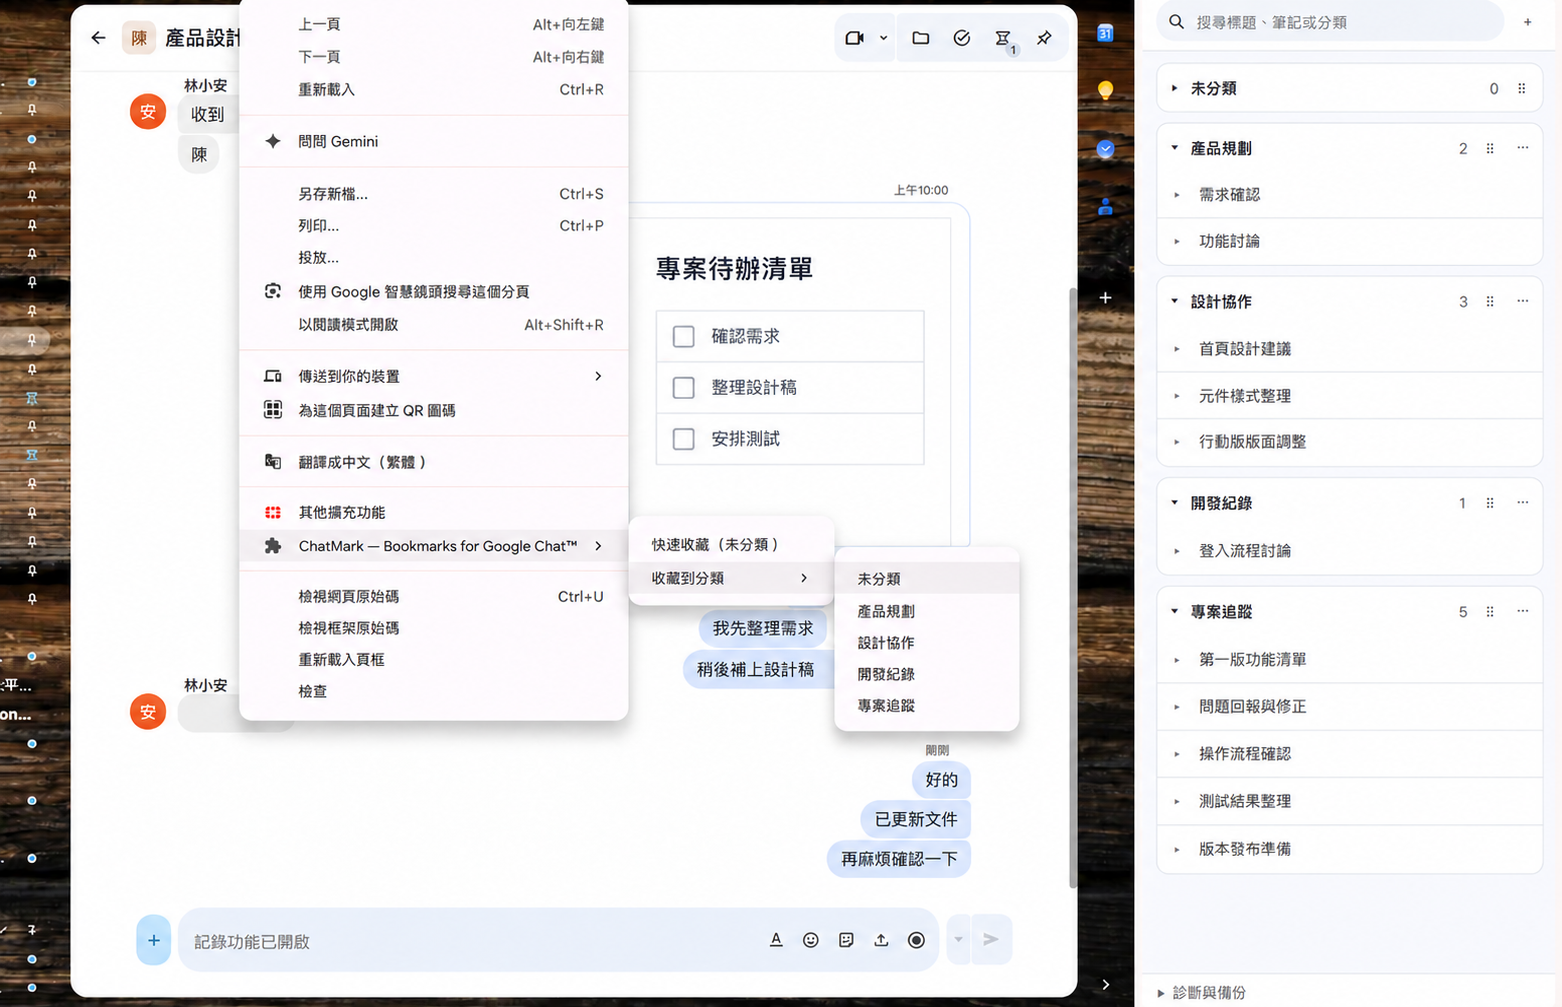
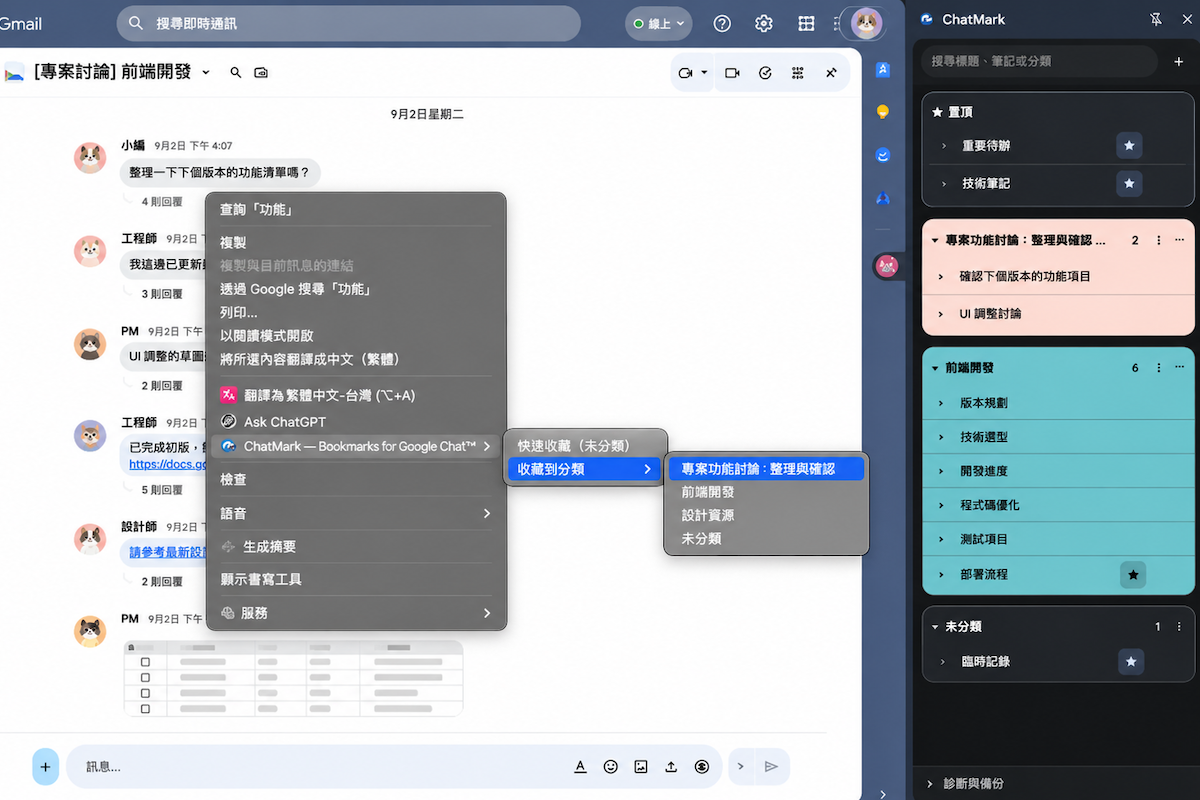
feat(website): 發布分類配色介紹與新版截圖

diff --git a/site/index-en.html b/site/index-en.html
@@ -7,7 +7,8 @@
     <meta name="referrer" content="no-referrer">
     <title>ChatMark | Bookmark Google Chat Messages in Gmail</title>
     <link rel="canonical" href="https://feifeiseal.github.io/google-chat-bookmark/index-en.html">
-    <link rel="icon" href="./icon-32.png" type="image/png">
+    <link rel="icon" href="./icon-16.png?v=0.1.3" type="image/png" sizes="16x16">
+    <link rel="icon" href="./icon-32.png?v=0.1.3" type="image/png" sizes="32x32">
     <link rel="stylesheet" href="./styles.css">
     <link rel="alternate" hreflang="zh-Hant" href="https://feifeiseal.github.io/google-chat-bookmark/">
     <link rel="alternate" hreflang="en" href="https://feifeiseal.github.io/google-chat-bookmark/index-en.html">
@@ -40,7 +41,7 @@
   <body>
     <a class="skip-link" href="#intro">Skip to introduction</a>
     <header class="site-header">
-      <a class="brand" href="./index-en.html" aria-current="page"><img src="./icon-48.png" width="32" height="32" alt=""><span>ChatMark</span></a>
+      <a class="brand" href="./index-en.html" aria-current="page"><img src="./icon-48.png?v=0.1.3" width="32" height="32" alt=""><span>ChatMark</span></a>
       <div class="header-links">
         <nav class="languages" aria-label="Language">
           <a href="./index.html" lang="zh-Hant" hreflang="zh-Hant">繁體中文</a>
@@ -70,21 +71,33 @@
 
       <figure class="product-shot">
         <a href="./images/bookmark-demo.png" target="_blank" rel="noopener" aria-label="View the full screenshot in a new tab">
-          <img src="./images/bookmark-demo.png" width="1562" height="1007" loading="lazy" decoding="async" alt="Google Chat embedded in Gmail with a right-click menu for saving a message to a category. The side panel shows bookmarks organized into product planning, design collaboration, development notes, and project tracking. The interface is in Traditional Chinese.">
+          <img src="./images/bookmark-demo.png" width="1200" height="800" loading="lazy" decoding="async" alt="Google Chat embedded in Gmail with a right-click menu for saving a message to a category. The ChatMark side panel shows categories with custom pink and teal card colors. The interface is in Traditional Chinese.">
         </a>
-        <figcaption>Save a message to a category from its right-click menu, then organize and search bookmarks in the side panel. <a href="./images/bookmark-demo.png" target="_blank" rel="noopener">View original (new tab)</a></figcaption>
+        <figcaption>Save a message to a category from its right-click menu, then organize and search bookmarks in the side panel. Categories can use custom colors. <a href="./images/bookmark-demo.png" target="_blank" rel="noopener">View original (new tab)</a></figcaption>
       </figure>
 
       <section aria-labelledby="features">
         <h2 id="features">Keep important conversations within reach</h2>
         <dl class="feature-list">
           <div><dt>Bookmark directly from a message</dt><dd>Right-click a Google Chat message to save it as uncategorized or choose a category. The title is taken from the message, and you can save different messages from the same conversation separately. If you try to save the same message again, the notice lets you jump to the existing bookmark.</dd></div>
-          <div><dt>Manage your categories</dt><dd>Create, rename, or delete categories, then drag them into the order you want. Expand or collapse categories to keep the side panel tidy.</dd></div>
+          <div><dt>Manage your categories</dt><dd>Create, rename, or delete categories, then drag them into the order you want. Use the category’s More menu to choose background and text colors for its entire card. Expand or collapse categories to keep the side panel tidy.</dd></div>
           <div><dt>Search and edit bookmarks</dt><dd>Search bookmark titles, category names, and notes, with title matches shown first. Edit titles and notes, delete bookmarks, or pin the ones you use most. Pinned bookmarks appear at the top of the side panel and in their original category.</dd></div>
           <div><dt>Organize with drag and drop</dt><dd>Drag bookmarks to reorder them within a category, move them to another category, or arrange pinned items. Categories remember whether you left them expanded or collapsed.</dd></div>
           <div><dt>Undo mistakes</dt><dd>Before deleting a category, you’ll see how many bookmarks it contains and be asked to confirm. You can undo the most recent bookmark or category deletion, and undo a new save from its confirmation notice.</dd></div>
           <div><dt>Return to the original message</dt><dd>Open a bookmark from the side panel to return to its saved message location in Gmail and read the surrounding conversation.</dd></div>
         </dl>
+      </section>
+
+      <section class="color-feature" aria-labelledby="category-colors">
+        <div>
+          <h2 id="category-colors">Recognize categories by color</h2>
+          <p>Use a category’s More menu and choose 「編輯分類」 (Edit category) to set the background and text colors of its entire card. Choose a preset background color, or use the color pickers and six-digit HEX fields for precise colors.</p>
+          <p>Preview the title, bookmarks, and notes before saving. You can reset both colors together later. The Uncategorized category keeps its default appearance.</p>
+        </div>
+        <figure>
+          <a href="./images/category-colors.png" target="_blank" rel="noopener" aria-label="View the category color settings screenshot in a new tab"><img src="./images/category-colors.png" width="400" height="600" loading="lazy" decoding="async" alt="ChatMark category editor with a pink background, dark text, and a preview of the fully colored category card. The interface is in Traditional Chinese."></a>
+          <figcaption>Category colors and live preview</figcaption>
+        </figure>
       </section>
 
       <section aria-labelledby="local-data">
@@ -115,7 +128,11 @@
           </div>
           <div>
             <h3>How can I organize categories and bookmarks?</h3>
-            <p>You can create, rename, delete, and drag categories into order. Drag bookmarks to reorder or move them between categories; you can also search, edit titles and notes, and pin frequently used bookmarks.</p>
+            <p>You can create, rename, delete, and drag categories into order, and choose background and text colors for each regular category card. Drag bookmarks to reorder or move them between categories; you can also search, edit titles and notes, and pin frequently used bookmarks.</p>
+          </div>
+          <div>
+            <h3>How do I set or reset category colors?</h3>
+            <p>Open a regular category’s More menu and choose 「編輯分類」 (Edit category). Pick a preset background color, or use the color pickers or six-digit HEX fields for the background and text. Preview the full card, then save. 「恢復預設顏色」 (Restore default colors) resets both colors. The Uncategorized category keeps its default appearance.</p>
           </div>
           <div>
             <h3>Where does a bookmark take me?</h3>

diff --git a/site/index.html b/site/index.html
@@ -7,7 +7,8 @@
     <meta name="referrer" content="no-referrer">
     <title>ChatMark｜Gmail 內 Google Chat 訊息收藏與整理</title>
     <link rel="canonical" href="https://feifeiseal.github.io/google-chat-bookmark/">
-    <link rel="icon" href="./icon-32.png" type="image/png">
+    <link rel="icon" href="./icon-16.png?v=0.1.3" type="image/png" sizes="16x16">
+    <link rel="icon" href="./icon-32.png?v=0.1.3" type="image/png" sizes="32x32">
     <link rel="stylesheet" href="./styles.css">
     <link rel="alternate" hreflang="zh-Hant" href="https://feifeiseal.github.io/google-chat-bookmark/">
     <link rel="alternate" hreflang="en" href="https://feifeiseal.github.io/google-chat-bookmark/index-en.html">
@@ -40,7 +41,7 @@
   <body>
     <a class="skip-link" href="#intro">跳至介紹內容</a>
     <header class="site-header">
-      <a class="brand" href="./" aria-current="page"><img src="./icon-48.png" width="32" height="32" alt=""><span>ChatMark</span></a>
+      <a class="brand" href="./" aria-current="page"><img src="./icon-48.png?v=0.1.3" width="32" height="32" alt=""><span>ChatMark</span></a>
       <div class="header-links">
         <nav class="languages" aria-label="語言">
           <a href="./index.html" lang="zh-Hant" hreflang="zh-Hant" aria-current="page">繁體中文</a>
@@ -70,21 +71,33 @@
 
       <figure class="product-shot">
         <a href="./images/bookmark-demo.png" target="_blank" rel="noopener" aria-label="在新分頁查看完整操作截圖">
-          <img src="./images/bookmark-demo.png" width="1562" height="1007" loading="lazy" decoding="async" alt="Gmail 內嵌 Google Chat 的右鍵收藏選單，可直接選擇分類；右側側欄顯示依產品規劃、設計協作、開發紀錄與專案追蹤整理的收藏。">
+          <img src="./images/bookmark-demo.png" width="1200" height="800" loading="lazy" decoding="async" alt="Gmail 內嵌 Google Chat 的右鍵收藏選單，可直接選擇分類；右側 ChatMark 側欄顯示粉色與藍綠色的自訂分類卡片。">
         </a>
-        <figcaption>在訊息上按右鍵收藏到分類，再從側欄集中整理和搜尋。<a href="./images/bookmark-demo.png" target="_blank" rel="noopener">查看原圖（新分頁）</a></figcaption>
+        <figcaption>在訊息上按右鍵收藏到分類，再從側欄集中整理和搜尋；分類可以使用自訂顏色。<a href="./images/bookmark-demo.png" target="_blank" rel="noopener">查看原圖（新分頁）</a></figcaption>
       </figure>
 
       <section aria-labelledby="features">
         <h2 id="features">讓重要的對話更好找</h2>
         <dl class="feature-list">
           <div><dt>從訊息直接建立收藏</dt><dd>在 Google Chat 訊息上按右鍵，快速收藏到未分類，或直接指定一個分類。標題會自動取自訊息內容；同一段對話中的不同訊息也能分別收藏。若重複收藏，提示可讓你跳到既有收藏。</dd></div>
-          <div><dt>分類完整管理</dt><dd>新增分類、重新命名或刪除不再需要的分類，也能拖曳調整分類順序。展開或收合分類，讓側欄保持清楚。</dd></div>
+          <div><dt>分類完整管理</dt><dd>新增分類、重新命名或刪除不再需要的分類，也能拖曳調整分類順序。從「⋯ → 編輯分類」設定整張卡片的背景色與文字色，讓不同主題更容易辨識；展開或收合分類，讓側欄保持清楚。</dd></div>
           <div><dt>搜尋與編輯收藏</dt><dd>搜尋收藏標題、分類名稱和筆記，標題符合的結果會優先顯示。可修改標題與筆記、刪除收藏，或將常用收藏置頂；置頂項目會同時出現在側欄頂端與原分類。</dd></div>
           <div><dt>拖曳整理順序</dt><dd>拖曳收藏調整同一分類內的順序、移到其他分類，或排列置頂項目。分類展開或收合的狀態會保留。</dd></div>
           <div><dt>操作錯誤可復原</dt><dd>刪除分類前會顯示其中的收藏筆數並要求確認；刪除收藏或分類後可立即復原。剛收藏的訊息也能從提示中復原。</dd></div>
           <div><dt>一點，回到原始訊息</dt><dd>從側欄點開收藏，在 Gmail 返回保存的訊息位置，接著閱讀前後文。</dd></div>
         </dl>
+      </section>
+
+      <section class="color-feature" aria-labelledby="category-colors">
+        <div>
+          <h2 id="category-colors">用顏色辨識不同分類</h2>
+          <p>從分類右上角的「⋯ → 編輯分類」設定整張卡片的背景色與文字色。背景色可選常用色，兩種顏色都能用選色器或六位 HEX 色碼精確設定。</p>
+          <p>編輯時可先預覽標題、收藏與筆記，儲存後才會套用；需要時可一次恢復兩種預設顏色。「未分類」維持原本外觀。</p>
+        </div>
+        <figure>
+          <a href="./images/category-colors.png" target="_blank" rel="noopener" aria-label="在新分頁查看分類顏色設定截圖"><img src="./images/category-colors.png" width="400" height="600" loading="lazy" decoding="async" alt="ChatMark 分類編輯畫面：選擇粉色背景、深色文字，並預覽套色後的整張分類卡片。"></a>
+          <figcaption>分類顏色編輯與即時預覽</figcaption>
+        </figure>
       </section>
 
       <section aria-labelledby="local-data">
@@ -115,7 +128,11 @@
           </div>
           <div>
             <h3>分類與收藏可以怎麼整理？</h3>
-            <p>可以新增、重新命名、刪除及拖曳排序分類，也能拖曳收藏調整順序或移到其他分類。側欄還支援搜尋、編輯標題與筆記，以及置頂常用收藏。</p>
+            <p>可以新增、重新命名、刪除及拖曳排序分類，也能為一般分類自訂整張卡片的背景色與文字色。收藏可拖曳調整順序或移到其他分類；側欄還支援搜尋、編輯標題與筆記，以及置頂常用收藏。</p>
+          </div>
+          <div>
+            <h3>如何設定或重設分類顏色？</h3>
+            <p>在一般分類右上角選擇「⋯ → 編輯分類」，可選常用背景色，或用選色器、六位 HEX 色碼設定背景色和文字色。編輯時可預覽整張卡片，按「儲存」後套用；「恢復預設顏色」會同時重設兩種顏色。「未分類」不可改色。</p>
           </div>
           <div>
             <h3>點選收藏會回到哪裡？</h3>

diff --git a/site/privacy-en.html b/site/privacy-en.html
@@ -7,7 +7,8 @@
     <meta name="referrer" content="no-referrer">
     <title>Privacy Policy · ChatMark</title>
     <link rel="canonical" href="https://feifeiseal.github.io/google-chat-bookmark/privacy-en.html">
-    <link rel="icon" href="./icon-32.png" type="image/png">
+    <link rel="icon" href="./icon-16.png?v=0.1.3" type="image/png" sizes="16x16">
+    <link rel="icon" href="./icon-32.png?v=0.1.3" type="image/png" sizes="32x32">
     <link rel="stylesheet" href="./styles.css">
     <link rel="alternate" hreflang="zh-Hant" href="https://feifeiseal.github.io/google-chat-bookmark/privacy.html">
     <link rel="alternate" hreflang="en" href="https://feifeiseal.github.io/google-chat-bookmark/privacy-en.html">
@@ -25,7 +26,7 @@
   <body>
     <a class="skip-link" href="#policy">Skip to policy</a>
     <header class="site-header">
-      <a class="brand" href="./index-en.html"><img src="./icon-48.png" width="32" height="32" alt=""><span>ChatMark</span></a>
+      <a class="brand" href="./index-en.html"><img src="./icon-48.png?v=0.1.3" width="32" height="32" alt=""><span>ChatMark</span></a>
       <div class="header-links">
         <nav class="languages" aria-label="Language">
           <a href="./privacy.html" lang="zh-Hant" hreflang="zh-Hant">繁體中文</a>
@@ -37,7 +38,7 @@
     <main id="policy" tabindex="-1">
       <div class="intro">
         <h1>Privacy Policy</h1>
-        <p class="updated">Last updated: <time datetime="2026-11-02">November 2, 2026</time></p>
+        <p class="updated">Last updated: <time datetime="2026-11-04">November 4, 2026</time></p>
         <p class="lead">Your bookmarks stay in your browser.</p>
         <p>ChatMark — Bookmarks for Google Chat™ helps you save, organize, and return to important messages in Google Chat embedded in Gmail. This policy explains how the extension handles data and how you can manage it.</p>
         <p><strong>ChatMark is an independently developed, unofficial extension. It is not provided, sponsored, or endorsed by Google.</strong></p>
@@ -57,7 +58,7 @@
         <ul>
           <li><strong>Message location:</strong> the conversation type, space or conversation ID, thread ID, message ID, and message link, used to detect duplicate bookmarks and return to the original message.</li>
           <li><strong>Bookmark content:</strong> a default title derived from the message text, along with titles, notes, and category names you edit.</li>
-          <li><strong>Organization and activity:</strong> categories, ordering, pinned and expanded states, and timestamps for creating, updating, and most recently opening bookmarks.</li>
+          <li><strong>Organization and activity:</strong> categories and their custom background and text colors, ordering, pinned and expanded states, and timestamps for creating, updating, and most recently opening bookmarks.</li>
         </ul>
         <p>The extension also reads URLs of Gmail and Chat tabs covered by its site permissions to determine whether the side panel should be available and to navigate to messages. It does not build a browsing history of other websites or read your Google password or authentication cookies.</p>
         <p>Bookmark titles or notes may contain personal information from the messages you select. This content is also handled locally as described in this policy.</p>
@@ -72,7 +73,7 @@
 
       <section aria-labelledby="backup">
         <h2 id="backup">Manual backup and restore</h2>
-        <p>When you select Full backup (「完整備份」), the extension downloads your library as a JSON file containing bookmark titles, notes, message links, identifiers, categories, ordering, and related data. The extension does not add encryption to this backup file. Store it somewhere you trust.</p>
+        <p>When you select Full backup (「完整備份」), the extension downloads your library as a JSON file containing bookmark titles, notes, message links, identifiers, categories, custom background and text colors, ordering, and related data. The extension does not add encryption to this backup file. Store it somewhere you trust.</p>
         <p>Restore reads only a file you explicitly select. It validates the file and replaces your current library only after your confirmation. Both backup and restore take place locally. If you choose to share a backup, its recipient can read the contents; the extension does not share it automatically.</p>
       </section>
 

diff --git a/site/privacy.html b/site/privacy.html
@@ -7,7 +7,8 @@
     <meta name="referrer" content="no-referrer">
     <title>隱私權政策 · ChatMark</title>
     <link rel="canonical" href="https://feifeiseal.github.io/google-chat-bookmark/privacy.html">
-    <link rel="icon" href="./icon-32.png" type="image/png">
+    <link rel="icon" href="./icon-16.png?v=0.1.3" type="image/png" sizes="16x16">
+    <link rel="icon" href="./icon-32.png?v=0.1.3" type="image/png" sizes="32x32">
     <link rel="stylesheet" href="./styles.css">
     <link rel="alternate" hreflang="zh-Hant" href="https://feifeiseal.github.io/google-chat-bookmark/privacy.html">
     <link rel="alternate" hreflang="en" href="https://feifeiseal.github.io/google-chat-bookmark/privacy-en.html">
@@ -25,7 +26,7 @@
   <body>
     <a class="skip-link" href="#policy">跳至政策內容</a>
     <header class="site-header">
-      <a class="brand" href="./"><img src="./icon-48.png" width="32" height="32" alt=""><span>ChatMark</span></a>
+      <a class="brand" href="./"><img src="./icon-48.png?v=0.1.3" width="32" height="32" alt=""><span>ChatMark</span></a>
       <div class="header-links">
         <nav class="languages" aria-label="語言">
           <a href="./privacy.html" lang="zh-Hant" hreflang="zh-Hant" aria-current="page">繁體中文</a>
@@ -37,7 +38,7 @@
     <main id="policy" tabindex="-1">
       <div class="intro">
         <h1>隱私權政策</h1>
-        <p class="updated">最後更新：<time datetime="2026-11-02">2026 年 11 月 2 日</time></p>
+        <p class="updated">最後更新：<time datetime="2026-11-04">2026 年 11 月 4 日</time></p>
         <p class="lead">你的收藏，保存在你的瀏覽器。</p>
         <p>ChatMark — Bookmarks for Google Chat™ 協助你在 Gmail 內嵌的 Google Chat 收藏、整理及返回重要訊息。本政策說明這項擴充功能如何處理資料，以及你可以如何管理資料。</p>
         <p><strong>ChatMark 是獨立開發的非官方擴充功能，並非由 Google 提供、贊助或背書。</strong></p>
@@ -57,7 +58,7 @@
         <ul>
           <li><strong>訊息定位資訊：</strong>對話類型、聊天室或對話 ID、討論串 ID、訊息 ID 與訊息連結，用於識別重複收藏及返回原訊息。</li>
           <li><strong>收藏內容：</strong>由訊息文字產生的預設標題，以及你編輯的標題、筆記和分類名稱。</li>
-          <li><strong>整理與操作資訊：</strong>分類、排序、置頂與展開狀態，及建立、更新和最近開啟收藏的時間。</li>
+          <li><strong>整理與操作資訊：</strong>分類及其自訂背景色、文字色、排序、置頂與展開狀態，及建立、更新和最近開啟收藏的時間。</li>
         </ul>
         <p>擴充功能也會讀取已授權 Gmail／Chat 分頁的網址，判斷側欄是否可用及執行訊息導覽。它不建立其他網站的瀏覽歷史，也不讀取你的 Google 密碼或登入 Cookie。</p>
         <p>收藏標題或筆記可能包含你選定訊息中的個人資訊；這些內容同樣依本政策在本機處理。</p>
@@ -72,7 +73,7 @@
 
       <section aria-labelledby="backup">
         <h2 id="backup">手動備份與還原</h2>
-        <p>選擇「完整備份」時，擴充功能會將收藏庫下載為 JSON 檔案，其中包含收藏標題、筆記、訊息連結、識別資訊、分類與排序等資料。備份檔案沒有由擴充功能額外加密，請保存在你信任的位置。</p>
+        <p>選擇「完整備份」時，擴充功能會將收藏庫下載為 JSON 檔案，其中包含收藏標題、筆記、訊息連結、識別資訊、分類、自訂背景色與文字色、排序等資料。備份檔案沒有由擴充功能額外加密，請保存在你信任的位置。</p>
         <p>還原只會讀取你主動選擇的檔案，驗證後經你確認，才取代目前收藏庫。備份與還原都在本機進行。若你自行分享備份，接收者可以讀取檔案內的內容；擴充功能不會自動分享它。</p>
       </section>
 

diff --git a/site/styles.css b/site/styles.css
@@ -74,6 +74,11 @@ footer { border-top: 1px solid var(--border); color: var(--muted); font-size: .8
 .feature-list div:first-child { padding-top: 0; }
 .feature-list dt { font-size: 1.0625rem; }
 .feature-list dd { margin-top: 0; }
+.color-feature { display: grid; grid-template-columns: minmax(0, 1fr) minmax(0, 320px); align-items: center; gap: clamp(24px, 5vw, 56px); }
+.color-feature figure { margin: 0; }
+.color-feature figure a { display: block; border: 1px solid var(--border); border-radius: 12px; overflow: hidden; }
+.color-feature figure img { display: block; width: 100%; height: auto; }
+.color-feature figcaption { margin-top: 10px; color: var(--muted); font-size: .875rem; }
 .faq-list { margin: 0; }
 .faq-list > div { padding: 20px 0; border-bottom: 1px solid var(--border); }
 .faq-list > div:first-child { padding-top: 0; }
@@ -85,6 +90,8 @@ footer { border-top: 1px solid var(--border); color: var(--muted); font-size: .8
   .brand-illustration { margin-top: 28px; }
   .feature-list div { display: block; padding: 20px 0; }
   .feature-list dd { margin-top: 6px; }
+  .color-feature { grid-template-columns: minmax(0, 1fr); }
+  .color-feature figure { width: min(100%, 400px); margin-inline: auto; }
 }
 @media (max-width: 540px) {
   .site-header, footer { padding: 20px; flex-wrap: wrap; }
